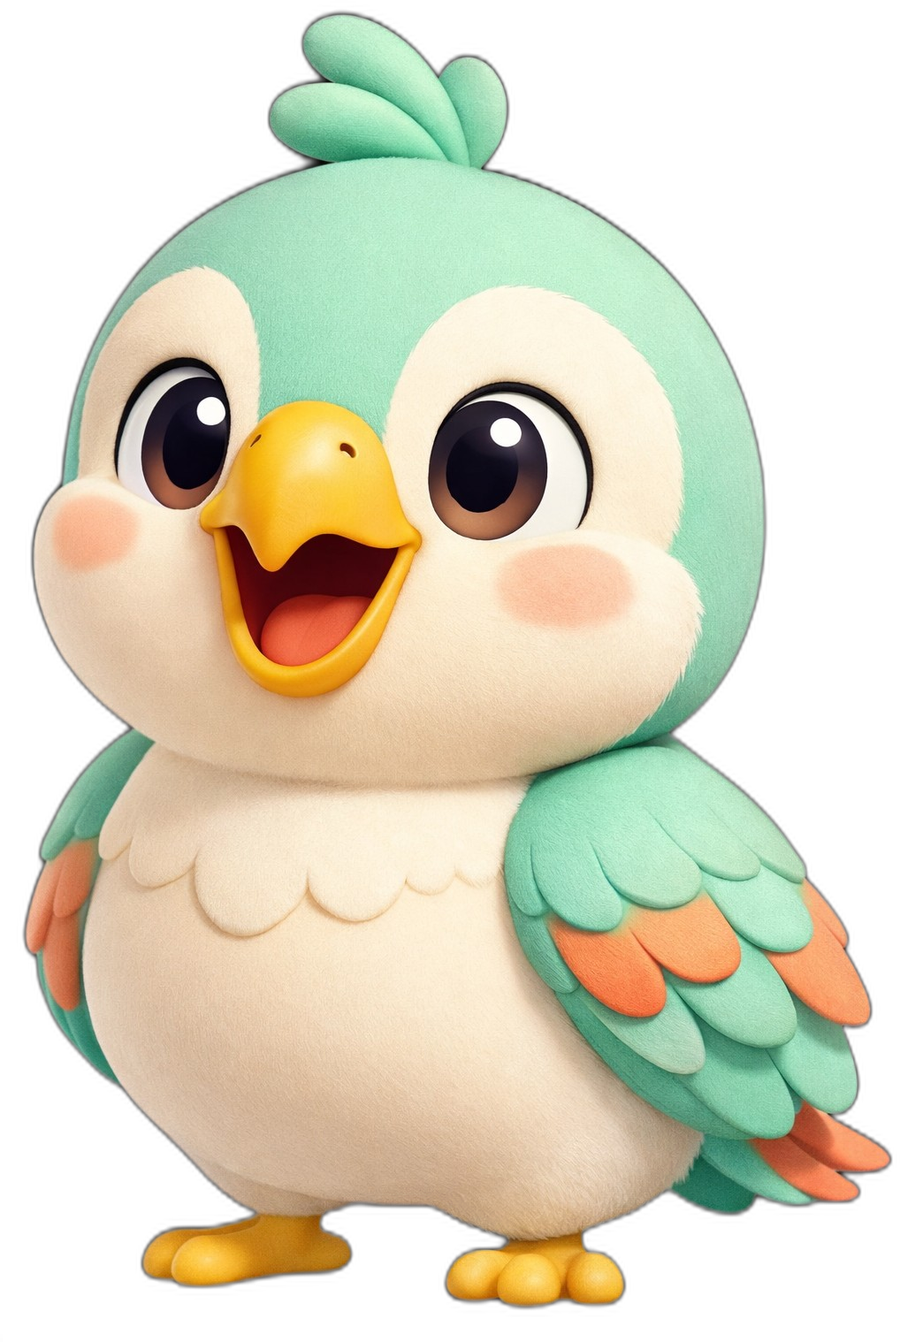
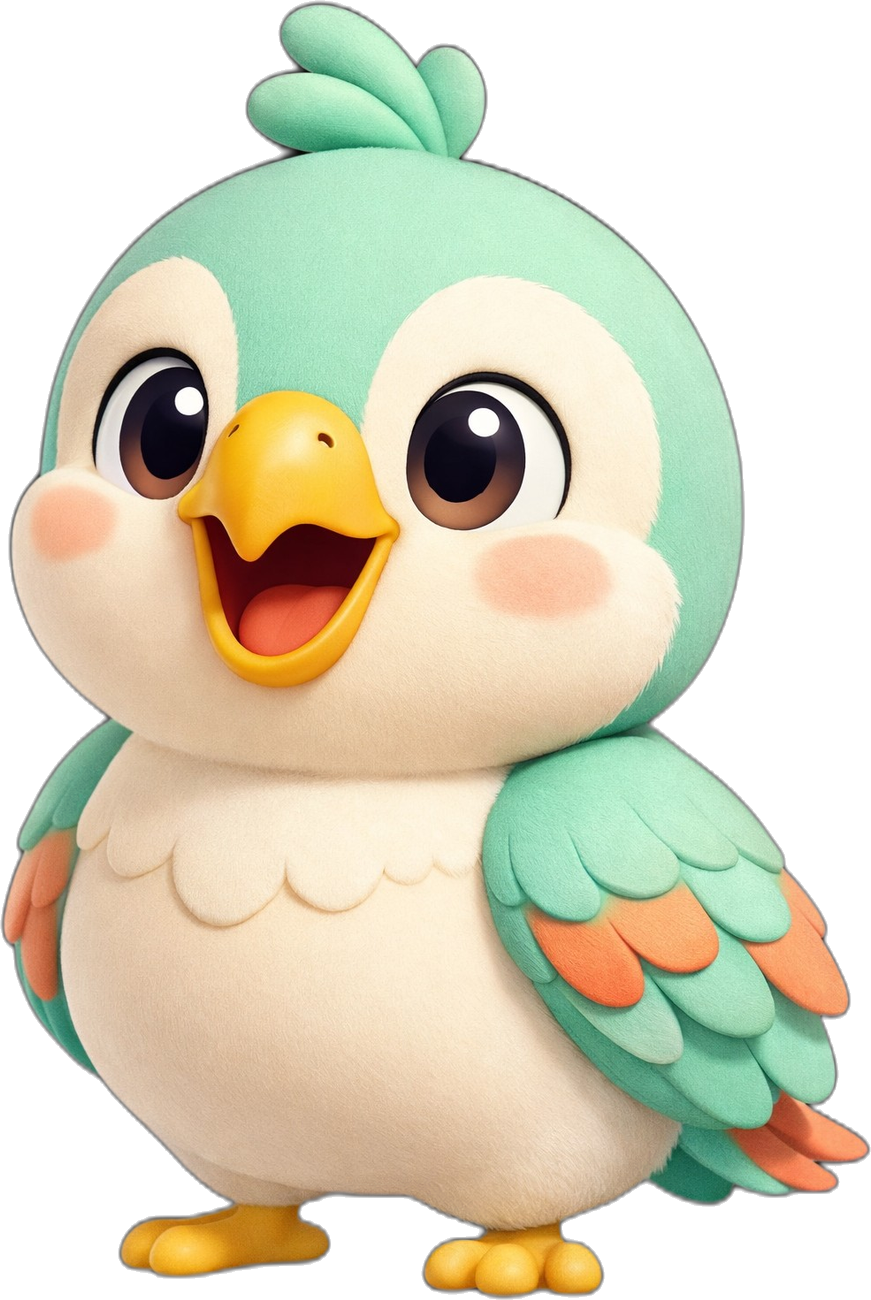
feat(app): menu de cuenta con efecto vidrio y cerrar sesion; mascota unica sin velo

diff --git a/components/app/sidebar-menu.tsx b/components/app/sidebar-menu.tsx
@@ -1,0 +1,118 @@
+"use client";
+
+import { useEffect, useRef, useState } from "react";
+import Link from "next/link";
+import { useRouter } from "next/navigation";
+import { AnimatePresence, motion } from "framer-motion";
+import { useTranslation } from "react-i18next";
+import { IconChevronRight, IconLogout, IconSettings, IconUser } from "@tabler/icons-react";
+import { useAuth } from "@/lib/auth";
+import { ThemeToggle } from "@/components/ui/theme-toggle";
+import { LangToggle } from "@/components/ui/lang-toggle";
+import { spring } from "@/lib/motion";
+import { cn } from "@/lib/utils";
+
+/**
+ * Menú de cuenta del lateral: apariencia, idioma, perfil y cerrar sesión en un
+ * panel translúcido (vidrio) para no ocupar sitio fijo en la barra.
+ */
+export function SidebarMenu({ collapsed }: { collapsed: boolean }) {
+  const { t } = useTranslation();
+  const router = useRouter();
+  const email = useAuth((s) => s.email);
+  const logout = useAuth((s) => s.logout);
+  const [open, setOpen] = useState(false);
+  const box = useRef<HTMLDivElement>(null);
+
+  // Cerrar al pulsar fuera o con Escape, como cualquier menú del sistema.
+  useEffect(() => {
+    if (!open) return;
+    const onDown = (e: MouseEvent) => {
+      if (box.current && !box.current.contains(e.target as Node)) setOpen(false);
+    };
+    const onKey = (e: KeyboardEvent) => e.key === "Escape" && setOpen(false);
+    document.addEventListener("mousedown", onDown);
+    document.addEventListener("keydown", onKey);
+    return () => {
+      document.removeEventListener("mousedown", onDown);
+      document.removeEventListener("keydown", onKey);
+    };
+  }, [open]);
+
+  const name = email?.split("@")[0] ?? "";
+
+  return (
+    <div ref={box} className="relative">
+      <button
+        type="button"
+        onClick={() => setOpen((v) => !v)}
+        aria-expanded={open}
+        aria-haspopup="menu"
+        aria-label={t("menu.account")}
+        className={cn(
+          "flex w-full items-center rounded-2xl border border-border bg-surface/70 py-2.5 font-display text-sm font-bold transition-colors hover:border-primary",
+          collapsed ? "justify-center px-0" : "gap-2.5 px-3",
+        )}
+      >
+        <span className="grid size-7 shrink-0 place-items-center rounded-full bg-primary font-display text-xs font-extrabold uppercase text-primary-fg">
+          {name.charAt(0) || "P"}
+        </span>
+        {!collapsed && (
+          <>
+            <span className="min-w-0 flex-1 truncate text-left">{name || t("menu.account")}</span>
+            <IconSettings className="size-4 shrink-0 text-muted" />
+          </>
+        )}
+      </button>
+
+      <AnimatePresence>
+        {open && (
+          <motion.div
+            role="menu"
+            initial={{ opacity: 0, y: 8, scale: 0.98 }}
+            animate={{ opacity: 1, y: 0, scale: 1 }}
+            exit={{ opacity: 0, y: 6, scale: 0.98 }}
+            transition={{ ...spring, duration: 0.15 }}
+            className={cn(
+              // Vidrio: translúcido, desenfocado y con borde de luz.
+              "absolute bottom-full z-50 mb-2 w-60 rounded-[22px] border border-white/15 bg-surface/70 p-2 shadow-2xl shadow-black/30 backdrop-blur-2xl",
+              collapsed ? "left-0" : "inset-x-0",
+            )}
+          >
+            <p className="px-3 pb-2 pt-1 text-[0.7rem] font-bold uppercase tracking-wide text-muted">
+              {t("menu.settings")}
+            </p>
+            <div className="space-y-1.5 px-1">
+              <ThemeToggle showLabel className="w-full justify-start" />
+              <LangToggle className="w-full justify-start" />
+            </div>
+
+            <div className="mt-2 border-t border-border/60 pt-2">
+              <Link
+                href="/app/perfil"
+                onClick={() => setOpen(false)}
+                className="flex items-center gap-2.5 rounded-xl px-3 py-2.5 text-sm font-bold transition-colors hover:bg-primary-soft"
+              >
+                <IconUser className="size-4 shrink-0 text-muted" />
+                <span className="flex-1">{t("nav.perfil")}</span>
+                <IconChevronRight className="size-4 shrink-0 text-muted" />
+              </Link>
+              <button
+                type="button"
+                onClick={async () => {
+                  setOpen(false);
+                  await logout();
+                  router.replace("/");
+                }}
+                className="flex w-full items-center gap-2.5 rounded-xl px-3 py-2.5 text-sm font-bold text-danger-ink transition-colors hover:bg-danger/10"
+              >
+                <IconLogout className="size-4 shrink-0" />
+                {t("perfil.logout")}
+              </button>
+            </div>
+          </motion.div>
+        )}
+      </AnimatePresence>
+    </div>
+  );
+}

diff --git a/components/app/sidebar.tsx b/components/app/sidebar.tsx
@@ -10,8 +10,7 @@ import { createJSONStorage, persist } from "zustand/middleware";
 import Image from "next/image";
 import { Logo } from "@/components/ui/logo";
 import logoMark from "@/public/brand/logo-mark.png";
-import { ThemeToggle } from "@/components/ui/theme-toggle";
-import { LangToggle } from "@/components/ui/lang-toggle";
+import { SidebarMenu } from "@/components/app/sidebar-menu";
 import { navItems } from "@/lib/nav-items";
 import { cn } from "@/lib/utils";
 
@@ -36,8 +35,8 @@ export function Sidebar() {
   return (
     <aside
       className={cn(
-        "sticky top-0 hidden h-dvh shrink-0 flex-col border-r border-border bg-surface/60 pb-8 pt-6 transition-[width] duration-150 md:flex",
-        collapsed ? "w-[4.5rem] overflow-visible px-2" : "w-60 overflow-y-auto overflow-x-hidden px-4",
+        "sticky top-0 hidden h-dvh shrink-0 flex-col overflow-visible border-r border-border bg-surface/60 pb-8 pt-6 transition-[width] duration-150 md:flex",
+        collapsed ? "w-[4.5rem] px-2" : "w-60 px-4",
       )}
     >
       <div
@@ -119,17 +118,8 @@ export function Sidebar() {
         })}
       </nav>
 
-      <div className={cn("mt-auto flex flex-col gap-2 pt-6", collapsed && "items-center")}>
-        <ThemeToggle
-          showLabel={!collapsed}
-          className={
-            collapsed ? "size-11 justify-center px-0" : "w-full justify-start"
-          }
-        />
-        <LangToggle
-          iconOnly={collapsed}
-          className={collapsed ? "size-11 justify-center px-0" : "w-full justify-start"}
-        />
+      <div className="mt-auto pt-6">
+        <SidebarMenu collapsed={collapsed} />
       </div>
     </aside>
   );

diff --git a/app/app/page.tsx b/app/app/page.tsx
@@ -28,7 +28,7 @@ import { dueCardKeys, todayXp, useProgress } from "@/lib/progress";
 import { useAuth } from "@/lib/auth";
 import { useHydrated } from "@/lib/use-hydrated";
 import { PwaInstall } from "@/components/ui/pwa-install";
-import mascotCelebrate from "@/public/brand/mascot-celebrate.png";
+import mascot from "@/public/brand/mascot.png";
 
 export default function HomePage() {
   const { t, i18n } = useTranslation();
@@ -376,10 +376,10 @@ function FeaturePanel({
 
       {/* Columna propia: nada de posición absoluta, así ningún borde la corta. */}
       <Image
-        src={mascotCelebrate}
+        src={mascot}
         alt=""
         height={158}
-        width={Math.round((158 * mascotCelebrate.width) / mascotCelebrate.height)}
+        width={Math.round((158 * mascot.width) / mascot.height)}
         className="pointer-events-none hidden h-[132px] w-auto shrink-0 select-none object-contain drop-shadow-xl min-[420px]:block sm:h-[158px]"
         priority
       />

diff --git a/app/app/escucha/page.tsx b/app/app/escucha/page.tsx
@@ -25,7 +25,7 @@ import { Card } from "@/components/ui/card";
 import { BackButton } from "@/components/ui/back-button";
 import { spring } from "@/lib/motion";
 import { cn } from "@/lib/utils";
-import mascotCelebrate from "@/public/brand/mascot-celebrate.png";
+import mascot from "@/public/brand/mascot.png";
 
 export default function EscuchaPage() {
   const router = useRouter();
@@ -182,10 +182,10 @@ function Session({
       <div className="mx-auto grid min-h-dvh w-full max-w-md place-items-center px-6 text-center">
         <motion.div initial={{ opacity: 0, scale: 0.94 }} animate={{ opacity: 1, scale: 1 }} transition={spring}>
           <Image
-            src={mascotCelebrate}
+            src={mascot}
             alt=""
             height={140}
-            width={Math.round((140 * mascotCelebrate.width) / mascotCelebrate.height)}
+            width={Math.round((140 * mascot.width) / mascot.height)}
             className="mx-auto"
             priority
           />

diff --git a/app/app/test/page.tsx b/app/app/test/page.tsx
@@ -17,7 +17,7 @@ import { Button } from "@/components/ui/button";
 import { Card } from "@/components/ui/card";
 import { spring } from "@/lib/motion";
 import { cn } from "@/lib/utils";
-import mascotCelebrate from "@/public/brand/mascot-celebrate.png";
+import mascot from "@/public/brand/mascot.png";
 
 export default function TestPage() {
   const { t } = useTranslation();
@@ -118,10 +118,10 @@ function Outcome({ result }: { result: PlacementResult }) {
         transition={spring}
       >
         <Image
-          src={mascotCelebrate}
+          src={mascot}
           alt=""
           height={150}
-          width={Math.round((150 * mascotCelebrate.width) / mascotCelebrate.height)}
+          width={Math.round((150 * mascot.width) / mascot.height)}
           className="mx-auto"
           priority
         />

diff --git a/components/lesson/lesson-runner.tsx b/components/lesson/lesson-runner.tsx
@@ -18,7 +18,7 @@ import { speak } from "@/lib/tts";
 import { Button } from "@/components/ui/button";
 import { cn } from "@/lib/utils";
 import { spring } from "@/lib/motion";
-import mascotCelebrate from "@/public/brand/mascot-celebrate.png";
+import mascot from "@/public/brand/mascot.png";
 
 function normalize(s: string): string {
   return s
@@ -397,10 +397,10 @@ function Complete({
         transition={spring}
       >
         <Image
-          src={mascotCelebrate}
+          src={mascot}
           alt=""
           height={160}
-          width={Math.round((160 * mascotCelebrate.width) / mascotCelebrate.height)}
+          width={Math.round((160 * mascot.width) / mascot.height)}
           className="mx-auto"
           priority
         />

diff --git a/docs/contexto/checklist.md b/docs/contexto/checklist.md
@@ -159,6 +159,8 @@ Riesgos: calidad de voz desigual por dispositivo (mitigación: selector de voz +
 - **Sesión**: con cookie de presencia, `/`, `/login` y `/registro` redirigen a `/app`; sin ella, `/app/*` va a `/login`. `app/not-found.tsx` (server) manda a `/app` o a la landing según haya sesión.
 - **Volver**: `BackButton` (admite `href` o `onClick`) en todas las subvistas: conversación, escucha y lector.
 - Barra móvil: el pill activo lleva `0.5rem` de aire abajo más el área segura.
+- **Menú de cuenta** al pie del lateral (`components/app/sidebar-menu.tsx`): panel translúcido (vidrio: `bg-surface/70` + `backdrop-blur-2xl` + borde de luz) con apariencia, idioma, perfil y **cerrar sesión**, sin tener que ir al perfil. Cierra al pulsar fuera o con Escape. El `aside` va con `overflow-visible` para que el panel no se recorte.
+- **Mascota**: `mascot-celebrate.png` retirada de la app; se usa `mascot.png` (la del landing) en home, test, escucha y fin de lección. Ambas tenían un **velo semitransparente** (alpha 1-19: 13.710 y 19.124 px) que sobre fondo oscuro se veía como un recuadro; eliminado y lienzo recortado.
 
 ## 8. Decisiones de IA y voz (verificado 2026-07-26)
 
